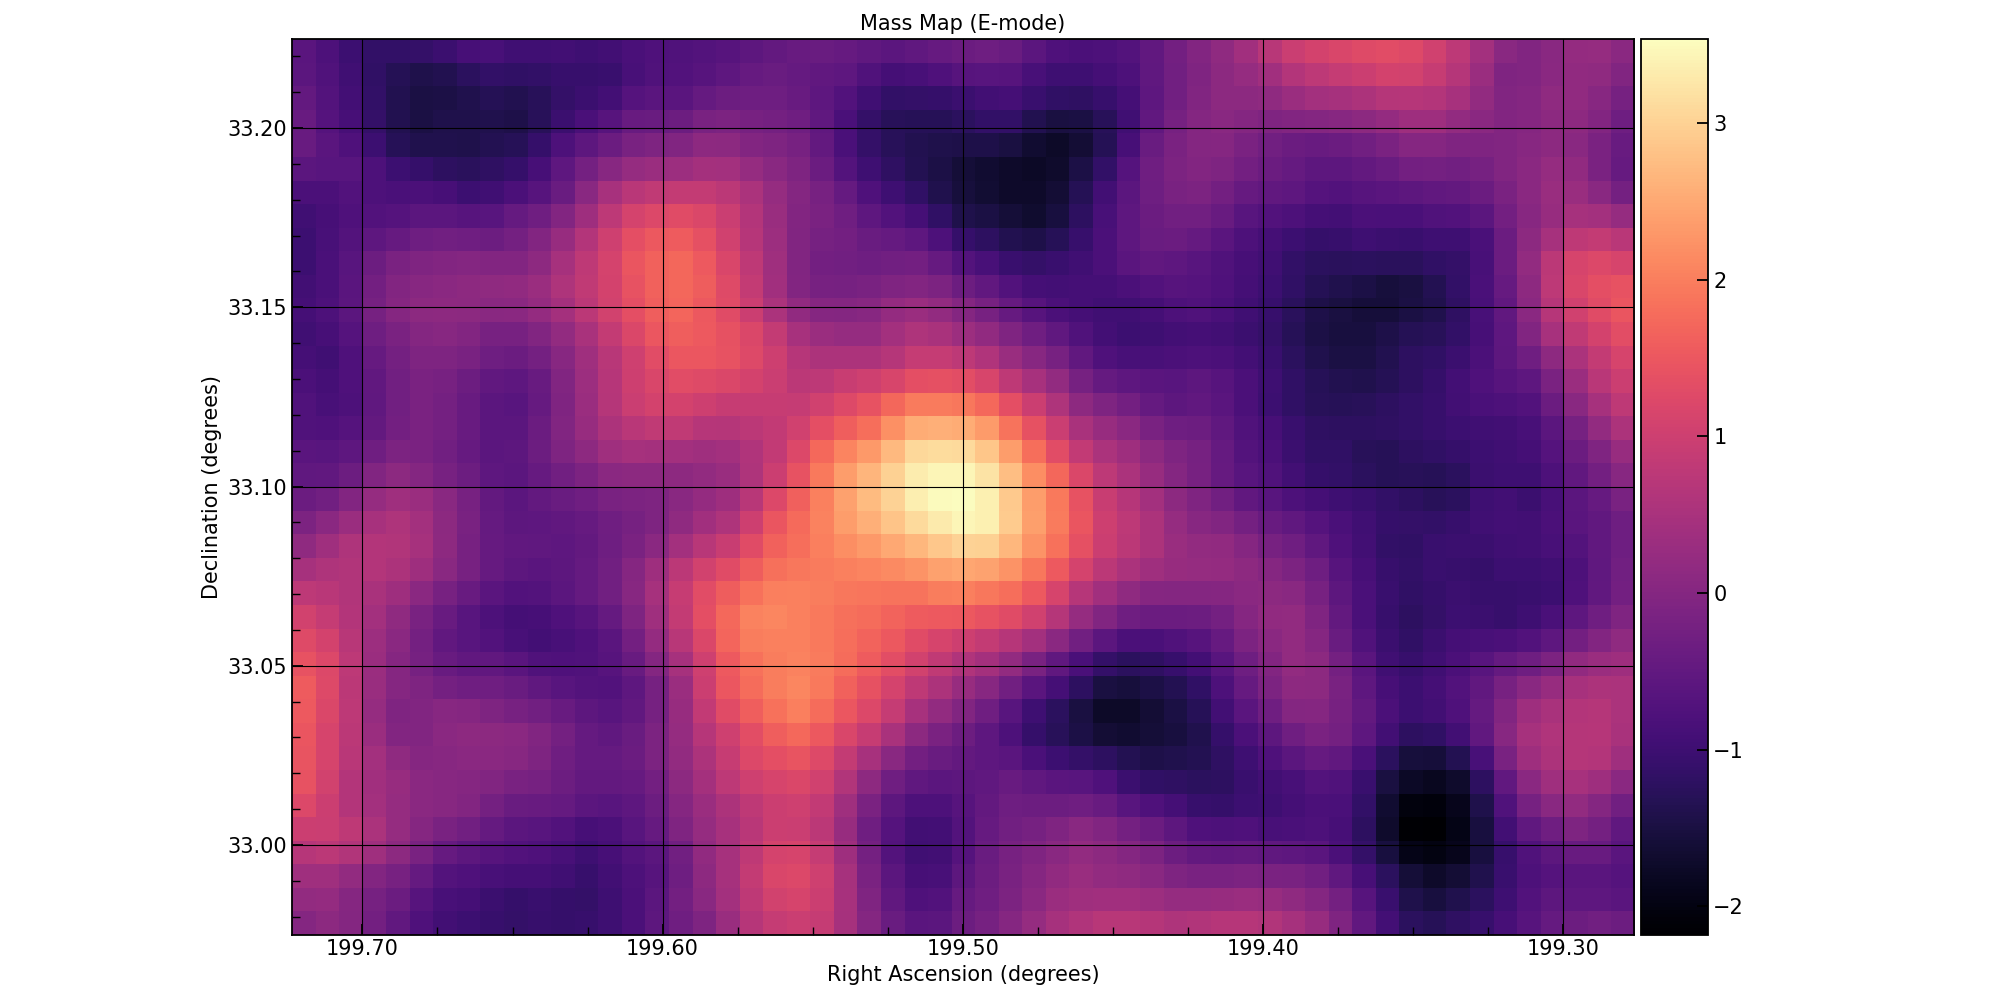
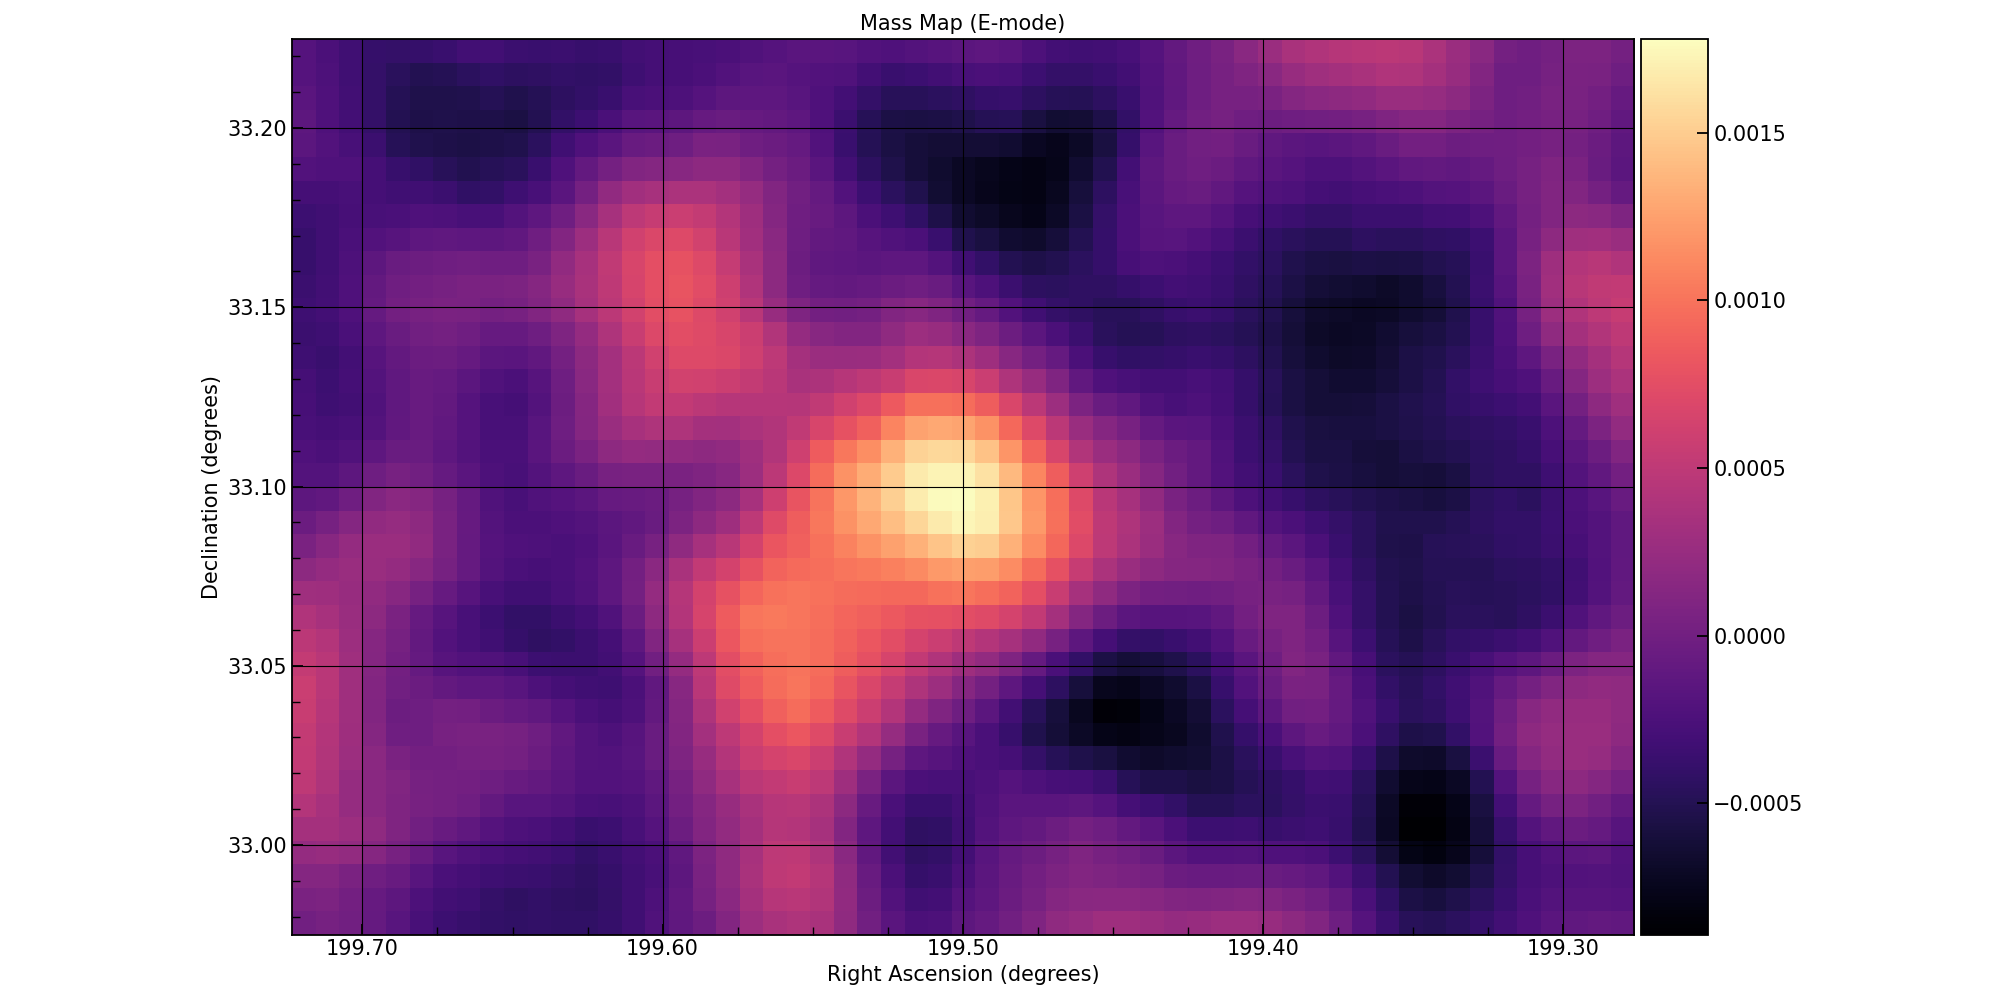
Add schneider 1998 Q function and streamline aperture mass

diff --git a/smpy/filters/processing.py b/smpy/filters/processing.py
@@ -3,21 +3,21 @@
 from scipy.ndimage import convolve
 import numpy as np
 
-def create_schirmer_kernel(scale, truncation=1.0):
-    """Create a 2D kernel for the Schirmer aperture mass filter.
+def schirmer_filter(scaled_radii, scale):
+    """Compute Schirmer filter values for given scaled radii.
     
     Parameters
     ----------
+    scaled_radii : numpy.ndarray
+        Radius values scaled by the aperture radius
     scale : float
         Scale radius of the filter in pixels
-    truncation : float, optional
-        Truncation radius in units of scale radius, by default 1.0
         
     Returns
     -------
     numpy.ndarray
-        2D filter kernel
-        
+        Filter values at the given radii positions
+    
     Notes
     -----
     Implements the Q function filter as defined in McCleary et al. 2020:
@@ -31,6 +31,78 @@ def create_schirmer_kernel(scale, truncation=1.0):
     .. [1] McCleary et al. 2020
     .. [2] Hetterscheidt et al. 2005
     """
+    # Filter parameters
+    a = 6
+    b = 150
+    c = 47
+    d = 50
+    x_c = 0.12
+    
+    # Calculate the first part: 1/(1 + e^(a-bx) + e^(dx-c))
+    part1 = 1.0 / (1.0 + np.exp(a - b*scaled_radii) + np.exp(d*scaled_radii - c))
+    
+    # Calculate the second part: tanh(x/x_c)/(pi*Rs^2*(x/x_c))
+    # Avoid division by zero when x = 0
+    x_ratio = np.divide(scaled_radii, x_c, out=np.ones_like(scaled_radii)*1e-10, where=scaled_radii!=0)
+    part2 = np.tanh(x_ratio) / (np.pi * scale**2 * x_ratio)
+    
+    # Combine parts
+    return part1 * part2
+
+def schneider_filter(scaled_radii, scale, l=3):
+    """Compute Schneider filter values for given scaled radii.
+    
+    Parameters
+    ----------
+    scaled_radii : numpy.ndarray
+        Radius values scaled by the aperture radius
+    scale : float
+        Scale radius of the filter in pixels
+    l : int, optional
+        Polynomial order parameter, by default 3
+        
+    Returns
+    -------
+    numpy.ndarray
+        Q filter values at the given radii positions
+        
+    Notes
+    -----
+    Implements the Schneider et al. (1998) Q function:
+    Q(ϑ) = [(1+ℓ)(2+ℓ)/(πθ²)] * (ϑ²/θ²) * (1-ϑ²/θ²)^ℓ * H(θ-ϑ)
+    """
+    # Initialize filter values
+    filter_vals = np.zeros_like(scaled_radii)
+    
+    # Apply filter only within the aperture radius (Heaviside function)
+    mask = scaled_radii <= 1.0
+    
+    # Q function filter
+    filter_vals[mask] = ((1 + l) * (2 + l) / (np.pi * scale**2)) * \
+                        (scaled_radii[mask]**2) * \
+                        (1 - scaled_radii[mask]**2)**l
+    
+    return filter_vals
+
+def create_filter_kernel(filter_func, scale, truncation=1.0, l=None):
+    """Create a 2D kernel for any aperture mass filter.
+    
+    Parameters
+    ----------
+    filter_func : callable
+        Filter function to apply to scaled radii
+    scale : float
+        Scale radius of the filter in pixels
+    truncation : float, optional
+        Truncation radius in units of scale radius, by default 1.0
+    l : int, optional
+        Polynomial order parameter for Schneider filter, by default None
+        
+    Returns
+    -------
+    numpy.ndarray
+        2D filter kernel
+    """
     # Create grid for kernel
     size = int(np.ceil(2 * truncation * scale))
     size = size + 1 if size % 2 == 0 else size  # Ensure odd size
@@ -40,73 +112,36 @@ def create_schirmer_kernel(scale, truncation=1.0):
     X, Y = np.meshgrid(x, y)
     R = np.sqrt(X**2 + Y**2)
     
-    # Calculate scaled radii
-    x = R / scale
+    # Calculate scaled radii and apply filter
+    scaled_radius = R / scale
     
-    # Filter parameters
-    a = 6
-    b = 150
-    c = 47
-    d = 50
-    x_c = 0.12
-    
-    # Calculate the first part: 1/(1 + e^(a-bx) + e^(dx-c))
-    part1 = 1.0 / (1.0 + np.exp(a - b*x) + np.exp(d*x - c))
-    
-    # Calculate the second part: tanh(x/x_c)/(pi*Rs^2*(x/x_c))
-    # Avoid division by zero when x = 0
-    x_ratio = np.divide(x, x_c, out=np.ones_like(x)*1e-10, where=x!=0)
-    part2 = np.tanh(x_ratio) / (np.pi * scale**2 * x_ratio)
-    
-    # Combine parts
-    kernel = part1 * part2
-    
-    # Normalize
-    kernel = kernel / np.sum(np.abs(kernel))
+    # Call the filter function with appropriate arguments
+    if filter_func == schneider_filter and l is not None:
+        kernel = filter_func(scaled_radius, scale, l)
+    else:
+        kernel = filter_func(scaled_radius, scale)
     
     return kernel
 
 def apply_filter_convolution(data, kernel):
-    """Apply a filter kernel via convolution.
-    
-    Parameters
-    ----------
-    data : numpy.ndarray
-        Input data to be filtered
-    kernel : numpy.ndarray
-        Filter kernel to apply
-        
-    Returns
-    -------
-    numpy.ndarray
-        Filtered data
-    """
+    """Apply a filter kernel via convolution."""
     return convolve(data, kernel, mode='constant', cval=0.0)
 
 def apply_aperture_filter(data, filter_config):
-    """Apply aperture filter based on configuration.
-    
-    Parameters
-    ----------
-    data : numpy.ndarray
-        Input data array to be filtered
-    filter_config : dict
-        Filter configuration
-        
-    Returns
-    -------
-    numpy.ndarray
-        Filtered data array
-    """
+    """Apply aperture filter based on configuration."""
     if filter_config is None:
         return data
         
     filter_type = filter_config.get('type', '').lower()
+    scale = filter_config.get('scale', 1.0)
+    truncation = filter_config.get('truncation', 1.0)
     
     if filter_type == 'schirmer':
-        scale = filter_config.get('scale', 1.0)
-        truncation = filter_config.get('truncation', 1.0)
-        kernel = create_schirmer_kernel(scale, truncation)
-        return apply_filter_convolution(data, kernel)
+        kernel = create_filter_kernel(schirmer_filter, scale, truncation)
+    elif filter_type == 'schneider':
+        l = filter_config.get('l', 3)
+        kernel = create_filter_kernel(schneider_filter, scale, truncation, l=l)
     else:
         raise ValueError(f"Unknown aperture filter type: {filter_type}")
+        
+    return apply_filter_convolution(data, kernel)

diff --git a/smpy/mapping_methods/aperture_mass/aperture_mass.py b/smpy/mapping_methods/aperture_mass/aperture_mass.py
@@ -1,16 +1,14 @@
-"""Implementation of aperture mass mapping using Schirmer filter."""
+"""Implementation of aperture mass mapping using filter functions."""
 
 import numpy as np
 from smpy.mapping_methods.base import MassMapper
-from smpy.filters.processing import schirmer_filter
+from smpy.filters.processing import schirmer_filter, schneider_filter
 
 class ApertureMassMapper(MassMapper):
-    """Implementation of aperture mass mapping using Schirmer filter.
+    """Implementation of aperture mass mapping using configurable filters.
     
-    This class implements the aperture mass mapping technique using the 
-    Schirmer filter function, which is optimized for the signal-to-noise ratio
-    of shear measurements. The implementation uses the direct pixel-by-pixel computation
-    method based on Equation 7 and 8 from the documentation.
+    This class implements the aperture mass mapping technique using 
+    various filter functions, which can be specified in config.
     """
     
     @property
@@ -19,7 +17,7 @@ class ApertureMassMapper(MassMapper):
         return "aperture_mass"
     
     def _compute_aperture_mass(self, g1_grid, g2_grid, rs):
-        """Compute aperture mass maps using the Schirmer filter.
+        """Compute aperture mass maps using the selected filter.
         
         Parameters
         ----------
@@ -40,6 +38,13 @@ class ApertureMassMapper(MassMapper):
         map_e = np.zeros((ny, nx))
         map_b = np.zeros((ny, nx))
         
+        # Select filter function based on config
+        filter_config = self.config.get('filter', {})
+        filter_type = filter_config.get('type', 'schirmer').lower()
+        
+        # Determine if we're using Schneider filter with specific l parameter
+        l = filter_config.get('l', 3) if filter_type == 'schneider' else None
+        
         # Compute aperture mass at each position
         for i in range(ny):
             for j in range(nx):
@@ -50,8 +55,11 @@ class ApertureMassMapper(MassMapper):
                 radii = np.sqrt(X + Y)
                 scaled_radii = radii / rs
                 
-                # Get filter values using the Schirmer filter
-                filter_vals = schirmer_filter(scaled_radii, rs)
+                # Get filter values using the selected filter
+                if filter_type == 'schneider':
+                    filter_vals = schneider_filter(scaled_radii, rs, l)
+                else:
+                    filter_vals = schirmer_filter(scaled_radii, rs)
                 
                 # Calculate tangential/cross shear components
                 dx = np.arange(nx) - j
@@ -62,7 +70,7 @@ class ApertureMassMapper(MassMapper):
                 et = -g1_grid * np.cos(2*theta) - g2_grid * np.sin(2*theta)
                 ex = +g1_grid * np.sin(2*theta) - g2_grid * np.cos(2*theta)
                 
-                # Compute aperture mass values (Equation 7)
+                # Compute aperture mass values
                 map_e[i,j] = np.sum(et * filter_vals)
                 map_b[i,j] = np.sum(ex * filter_vals)
                 
@@ -81,29 +89,11 @@ class ApertureMassMapper(MassMapper):
         Returns
         -------
         map_e, map_b : `numpy.ndarray`
-            E-mode and B-mode aperture mass maps (signal-to-noise ratio)
+            Raw E-mode and B-mode aperture mass maps
         """
         # Get filter scale from config
         filter_config = self.config.get('filter', {})
         rs = filter_config.get('scale', 1.0)
         
-        # Compute aperture mass maps
-        map_e, map_b = self._compute_aperture_mass(g1_grid, g2_grid, rs)
-        
-        # Compute noise from shape dispersion
-        e_sq = g1_grid**2 + g2_grid**2
-        noise = np.zeros_like(map_e)
-        
-        for i in range(map_e.shape[0]):
-            for j in range(map_e.shape[1]):
-                x = abs(np.arange(map_e.shape[1]) - j)
-                y = abs(np.arange(map_e.shape[0]) - i)
-                X, Y = np.meshgrid(x**2, y**2)
-                radii = np.sqrt(X + Y)
-                scaled_radii = radii / rs
-                
-                filter_vals = schirmer_filter(scaled_radii, rs)
-                noise[i,j] = np.sqrt(np.sum(filter_vals**2 * e_sq))/np.sqrt(2)
-        
-        # Return signal-to-noise maps
-        return map_e/noise, map_b/noise
+        # Compute and return raw aperture mass maps
+        return self._compute_aperture_mass(g1_grid, g2_grid, rs)
